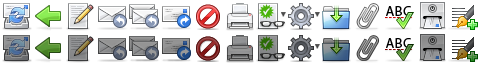
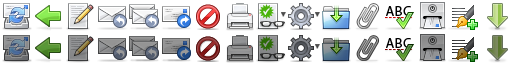
Improved/unified attachment preview page Implemented attachment print button

diff --git a/skins/classic/templates/messagepart.html b/skins/classic/templates/messagepart.html
@@ -3,23 +3,38 @@
 <head>
 <title><roundcube:object name="pagetitle" /></title>
 <roundcube:include file="/includes/links.html" />
+<script type="text/javascript" src="/splitter.js"></script>
+<script type="text/javascript" src="/functions.js"></script>
+<style type="text/css">
+#messagepartheader { width: <roundcube:exp expression="!empty(cookie:mailpartsplitter) ? cookie:mailpartsplitter-5 : 170" />px; }
+#messagepartcontainer { left: <roundcube:exp expression="!empty(cookie:mailpartsplitter) ? cookie:mailpartsplitter+5 : 180" />px;
+<roundcube:exp expression="browser:ie ? ('width: expression((parseInt(this.parentNode.offsetWidth)-'.(!empty(cookie:mailpartsplitter) ? cookie:mailpartsplitter+5 : 180).')+\\'px\\');') : ''" />
+}
+</style>
 </head>
 <body class="extwin">
+<roundcube:object name="message" id="message" />
 
-<roundcube:include file="/includes/header.html" />
-
-<div id="partheader">
-<roundcube:object name="messagePartControls" cellpadding="2" cellspacing="0" />
-
-<div style="position:absolute; top:2px; right:0; width:12em; text-align:right">
-  [<a href="#close" class="closelink" onclick="self.close()"><roundcube:label name="close" /></a>]
-</div>
+<div id="messagetoolbar">
+    <roundcube:button command="download" type="link" class="button download" classAct="button download" classSel="button downloadSel" title="download" content=" " />
+    <roundcube:button command="print" type="link" class="button print" classAct="button print" classSel="button printSel" title="print" content=" " />
 </div>
 
-
-<div id="messagepartcontainer">
-<roundcube:object name="messagePartFrame" id="messagepartframe" width="100%" height="100%" />
+<div id="mainscreen">
+    <div id="messagepartheader">
+        <div class="boxtitle" /><roundcube:label name="properties" /></div>
+        <div class="boxlistcontent">
+            <roundcube:object name="messagePartControls" class="records-table" cellspacing="0" />
+        </div>
+    </div>
+    <div id="messagepartcontainer">
+        <roundcube:object name="messagePartFrame" id="messagepartframe" width="100%" height="100%" />
+    </div>
 </div>
+<script type="text/javascript">
+var mailpartsplit = new rcube_splitter({id:'mailpartsplitter', p1: 'messagepartheader', p2: 'messagepartcontainer', orientation: 'v', relative: true, start: 165});
+rcmail.add_onload('mailpartsplit.init()');
+</script>
 
 </body>
 </html>

diff --git a/program/js/app.js b/program/js/app.js
@@ -277,6 +277,8 @@ function rcube_webmail()
           // init message compose form
           this.init_messageform();
         }
+        else if (this.env.action == 'get')
+          this.enable_command('download', 'print', true);
         // show printing dialog
         else if (this.env.action == 'print' && this.env.uid) {
           if (bw.safari)
@@ -864,7 +866,7 @@ function rcube_webmail()
 
         // open attachment in frame if it's of a supported mimetype
         if (command != 'download-attachment' && mimetype && this.env.mimetypes && $.inArray(mimetype, this.env.mimetypes) >= 0) {
-          if (this.open_window(this.env.comm_path+'&_action=get&'+qstring+'&_frame=1', true, true))
+          if (this.open_window(this.env.comm_path+'&_action=get&'+qstring+'&_frame=1'))
             break;
         }
 
@@ -1048,7 +1050,10 @@ function rcube_webmail()
         break;
 
       case 'print':
-        if (uid = this.get_single_uid()) {
+        if (this.env.action == 'get') {
+          this.gui_objects.messagepartframe.contentWindow.print();
+        }
+        else if (uid = this.get_single_uid()) {
           ref.printwin = this.open_window(this.env.comm_path+'&_action=print&_uid='+uid+'&_mbox='+urlencode(this.env.mailbox)+(this.env.safemode ? '&_safe=1' : ''), true, true);
           if (this.printwin) {
             if (this.env.action != 'show')
@@ -1063,7 +1068,10 @@ function rcube_webmail()
         break;
 
       case 'download':
-        if (uid = this.get_single_uid())
+        if (this.env.action == 'get') {
+          location.href = location.href.replace(/_frame=/, '_download=');
+        }
+        else if (uid = this.get_single_uid())
           this.goto_url('viewsource', { _uid: uid, _mbox: this.env.mailbox, _save: 1 });
         break;
 

diff --git a/skins/larry/templates/messagepart.html b/skins/larry/templates/messagepart.html
@@ -4,33 +4,38 @@
 <title><roundcube:object name="pagetitle" /></title>
 <roundcube:include file="/includes/links.html" />
 </head>
-<body class="partwin">
+<body class="extwin noscroll">
 
-<div id="header">
 <div id="topline">
 	<div class="topright">
 		<a href="#close" class="closelink" onclick="self.close()"><roundcube:label name="close" /></a>
 	</div>
 </div>
 
-<div id="topnav">
-	<roundcube:object name="logo" src="/images/roundcube_logo.png" id="toplogo" border="0" alt="Logo" />
-</div>
-
-<br style="clear:both" />
-</div>
-
 <div id="mainscreen">
 
-<div id="partheader" class="uibox">
-<roundcube:object name="messagePartControls" class="headers-table" />
+<div id="messagetoolbar" class="toolbar fullwidth">
+	<roundcube:button command="download" type="link" class="button download disabled" classAct="button download" classSel="button download pressed" label="download" />
+	<roundcube:button command="print" type="link" class="button print disabled" classAct="button print" classSel="button print pressed" label="print" />
+</div>
+
+<div id="messagepartheader" class="uibox listbox">
+	<h2 class="boxtitle"><roundcube:label name="properties" /></h2>
+	<div class="scroller">
+		<roundcube:object name="messagePartControls" class="listing" />
+	</div>
 </div>
 
 <div id="messagepartcontainer" class="uibox">
-<roundcube:object name="messagePartFrame" id="messagepartframe" frameborder="0" />
+	<div class="iframebox">
+	<roundcube:object name="messagePartFrame" id="messagepartframe" frameborder="0" />
+	</div>
+	<roundcube:object name="message" id="message" class="statusbar" />
 </div>
 
 </div>
+
+<roundcube:include file="/includes/footer.html" />
 
 </body>
 </html>

diff --git a/skins/classic/mail.css b/skins/classic/mail.css
@@ -107,6 +107,14 @@
   background-position: -192px -32px;
 }
 
+#messagetoolbar a.print {
+  background-position: -224px 0;
+}
+
+#messagetoolbar a.printSel {
+  background-position: -224px -32px;
+}
+
 #messagetoolbar a.markmessage {
   background-position: -256px 0;
 }
@@ -153,6 +161,14 @@
 
 #messagetoolbar a.sendSel {
   background-position: -416px -32px;
+}
+
+#messagetoolbar a.download {
+  background-position: -480px 0;
+}
+
+#messagetoolbar a.downloadSel {
+  background-position: -480px -32px;
 }
 
 #messagetoolbar select.mboxlist
@@ -284,10 +300,38 @@
 #messagepartcontainer
 {
   position: absolute;
-  top: 80px;
-  left: 20px;
-  right: 20px;
-  bottom: 20px;
+  top: 0;
+  left: 170px;
+  right: 0;
+  bottom: 0;
+}
+
+#messagepartheader
+{
+  position: absolute;
+  top: 0;
+  bottom: 0;
+  left: 0;
+  width: 160px;
+  border: 1px solid #999999;
+  background-color: #F9F9F9;
+  overflow: hidden;
+}
+
+#messagepartheader table
+{
+  width: 100%;
+  table-layout: fixed;
+}
+
+#messagepartheader table td
+{
+  text-overflow: ellipsis;
+}
+
+#messagepartheader table td.title
+{
+  width: 60px;
 }
 
 #mailcontframe
@@ -329,31 +373,7 @@
   height: 100%;
   min-height: 100%; /* Chrome 14 bug */
   border: 1px solid #999999;
-  background-color: #F9F9F9;
-}
-
-
-#partheader
-{
-  position: absolute;
-  top: 10px;
-  left: 220px;
-  right: 20px;
-  height: 40px;
-}
-
-#partheader table td
-{
-  padding-left: 2px;
-  padding-right: 4px;
-  vertical-align: middle;
-  font-size: 11px;
-}
-
-#partheader table td.title
-{
-  color: #666666;
-  font-weight: bold;
+  background-color: #fff;
 }
 
 

diff --git a/skins/larry/mail.css b/skins/larry/mail.css
@@ -712,7 +712,6 @@ a.iconbutton.threadmode.selected {
 }
 
 #messageheader,
-#partheader,
 #composeheaders {
 	position: relative;
 	padding: 3px 0;
@@ -1147,8 +1146,8 @@ div.message-partheaders .headers-table td.header {
 
 #messagepartcontainer {
 	position: absolute;
-	top: 60px;
-	left: 0;
+	top: 42px;
+	left: 232px;
 	right: 0;
 	bottom: 0;
 }
@@ -1158,6 +1157,28 @@ div.message-partheaders .headers-table td.header {
 	width: 100%;
 	height: 100%;
 }
+
+#messagepartheader {
+	position: absolute;
+	top: 42px;
+	left: 0;
+	width: 220px;
+	bottom: 0;
+}
+
+#messagepartheader table {
+	table-layout: fixed;
+	overflow: hidden;
+}
+
+#messagepartheader table td {
+	text-overflow: ellipsis;
+}
+
+#messagepartheader table td.title {
+	width: 60px;
+}
+
 
 /*** message composition ***/
 

diff --git a/skins/larry/styles.css b/skins/larry/styles.css
@@ -690,17 +690,6 @@ a.iconlink.upload {
 	opacity: 0.999;
 }
 
-.partwin #topline {
-	position: absolute;
-	right: 6px;
-	top: 18px;
-	width: auto;
-	z-index: 100;
-	background: transparent;
-	background: none;
-	border: 0;
-}
-
 .minimal #topline a.button-logout {
 	display: none;
 }
@@ -881,10 +870,6 @@ a.iconlink.upload {
 
 .minimal #mainscreen.offset {
 	top: 102px;
-}
-
-.partwin #mainscreen {
-	top: 60px
 }
 
 .extwin #mainscreen {
@@ -1815,6 +1800,10 @@ ul.proplist li {
 
 .toolbar a.button.close {
 	background-position: 0 -1745px;
+}
+
+.toolbar a.button.download {
+	background-position: center -1906px;
 }
 
 a.menuselector {

diff --git a/skins/larry/ui.js b/skins/larry/ui.js
@@ -154,6 +154,10 @@ function rcube_mail_ui()
         rcmail.addEventListener('enable-command', enable_command);
         rcmail.addEventListener('afterimport-messages', show_uploadform);
       }
+      else if (rcmail.env.action == 'get') {
+        new rcube_splitter({ id:'mailpartsplitterv', p1:'#messagepartheader', p2:'#messagepartcontainer',
+          orientation:'v', relative:true, start:226, min:150, size:12}).init();
+      }
 
       if ($('#mailview-left').length) {
         new rcube_splitter({ id:'mailviewsplitterv', p1:'#mailview-left', p2:'#mailview-right',

diff --git a/skins/classic/common.css b/skins/classic/common.css
@@ -283,6 +283,15 @@ body > #message a
   text-decoration: underline;
 }
 
+body.extwin #closelink
+{
+  position: absolute;
+  top: 5px;
+  right: 20px;
+  text-align: right;
+  z-index:100;
+}
+
 .box
 {
   border: 1px solid #999;
